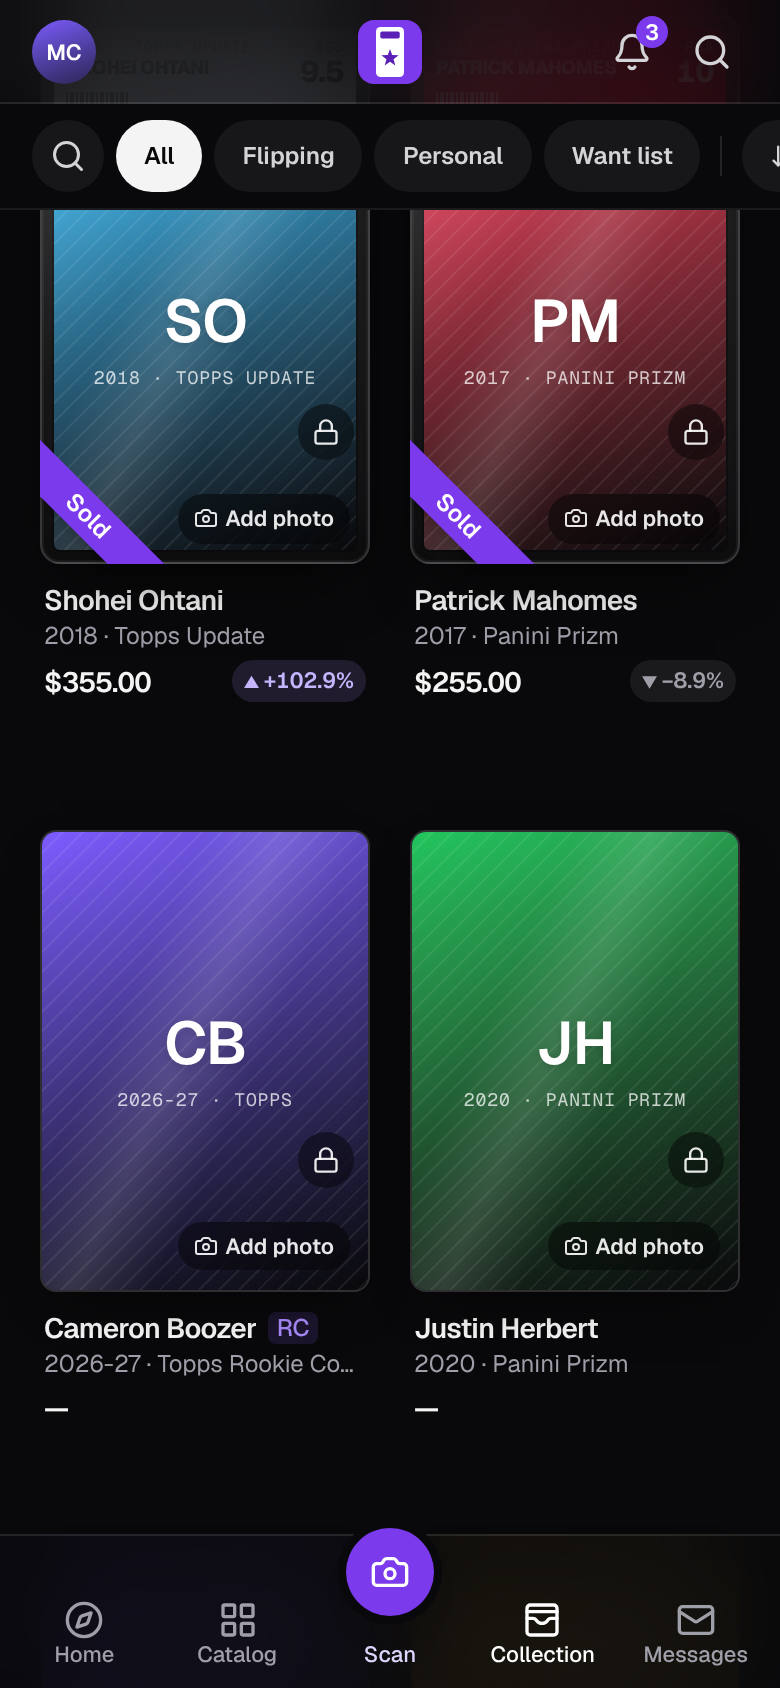
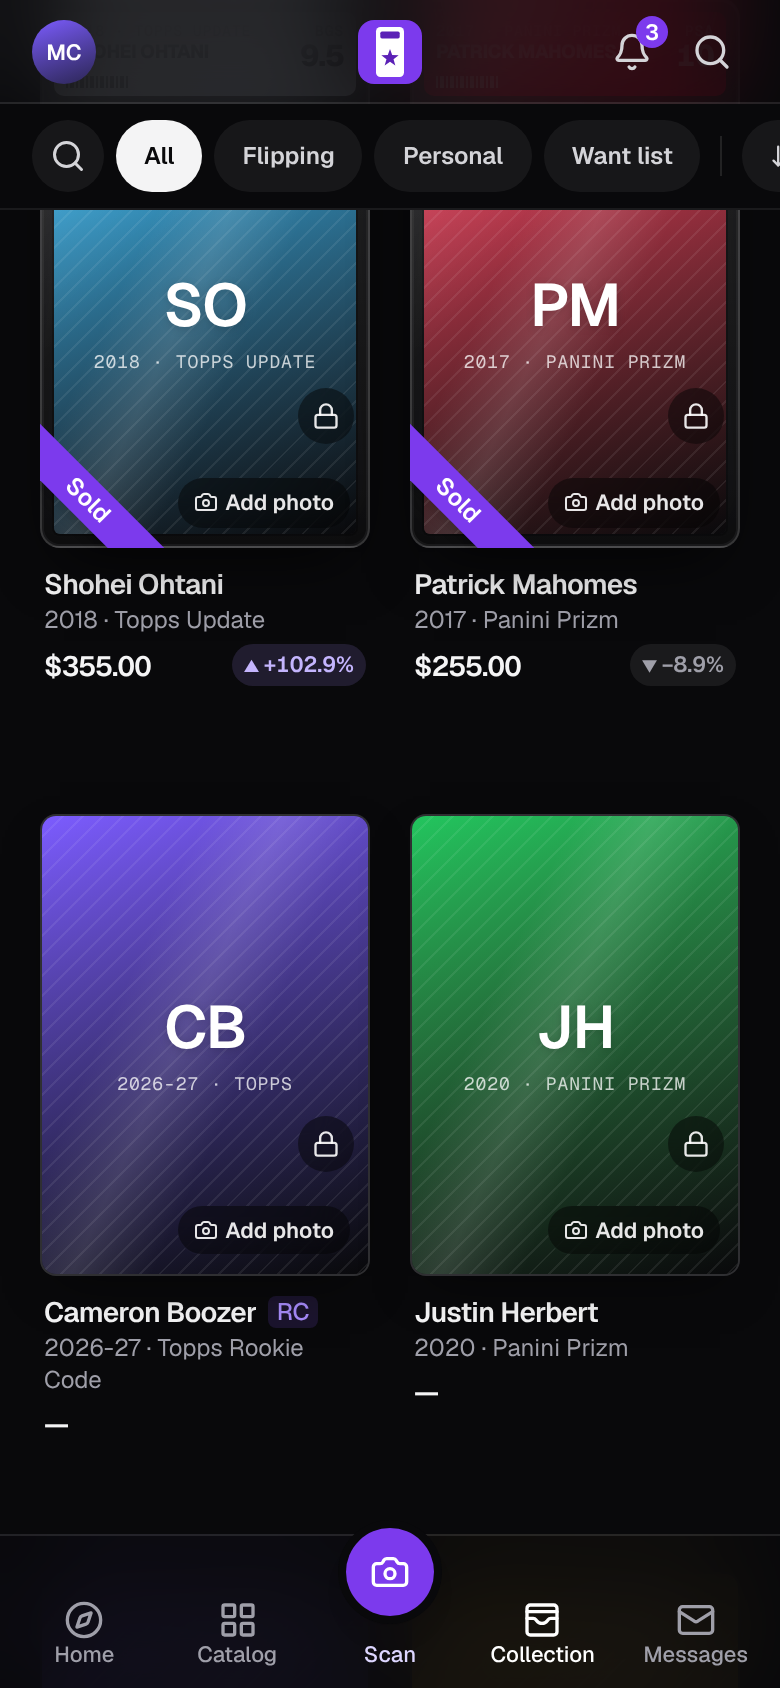
Collection tile: the year and set wrap to 2 lines instead of cutting off
"2026-27 · Topps Rookie Code" no longer reads "Topps Rookie Co…" on the
2-column tile. Long set names wrap to a second line, then clamp.

Claude-Session: https://claude.ai/code/session_01EqJov2nZQ8h6EWMU7CyYfR

diff --git a/components/card-tile.test.tsx b/components/card-tile.test.tsx
@@ -4,6 +4,7 @@ import { createElement, type ReactElement } from "react";
 import { renderToStaticMarkup } from "react-dom/server";
 import { ImageConfigContext } from "next/dist/shared/lib/image-config-context.shared-runtime";
 import { imageConfigDefault } from "next/dist/shared/lib/image-config";
+import { CardTile } from "@/components/card-tile";
 import { PostCardTile, postCardHref } from "@/components/post-card-tile";
 import { ProfileCardGrid } from "@/components/profile-card-grid";
 import nextConfig from "@/next.config";
@@ -165,6 +166,22 @@ describe("390px layout", () => {
       assert.match(html, /<p class="min-w-0 truncate text-sm font-semibold[^"]*" title=/);
       assert.doesNotMatch(html, /(?<![\w-])(?:w|min-w)-\[\d+px\]/);
     }
+  });
+
+  it("the collection tile's year and set wrap to 2 lines instead of cutting off (Topps Rookie Code)", () => {
+    const html = render(
+      createElement(CardTile, {
+        card: { ...card({ setBrand: "Topps", year: 2026 }), yearLabel: "2026-27", insertName: "Rookie Code" },
+        href: "/cards/c1",
+        index: 0,
+        priceLabel: null,
+      }),
+    );
+    const caption = html.match(/<p class="([^"]*)">2026-27 · Topps Rookie Code<\/p>/)?.[1] ?? "";
+    assert.ok(caption, html);
+    assert.match(caption, /\bline-clamp-2\b/);
+    assert.match(caption, /\bbreak-words\b/);
+    assert.doesNotMatch(caption, /\btruncate\b/);
   });
 
   it("sizes the post tile by percent with a cap, never a fixed width", () => {

diff --git a/components/card-tile.tsx b/components/card-tile.tsx
@@ -200,7 +200,8 @@ export function CardTile({
               />
             ) : null}
           </div>
-          <p className={compact ? "truncate text-11 leading-4 text-zinc-500 dark:text-zinc-400" : "truncate text-xs text-zinc-500 dark:text-zinc-400"}>
+          {/* Wraps to 2 lines instead of cutting off: "2026-27 · Topps Rookie Code" stays whole. */}
+          <p className={compact ? "line-clamp-2 break-words text-11 leading-4 text-zinc-500 dark:text-zinc-400" : "line-clamp-2 break-words text-xs text-zinc-500 dark:text-zinc-400"}>
             {yearSetLine({ ...art, insertName: card.insertName })}
           </p>
           <div
